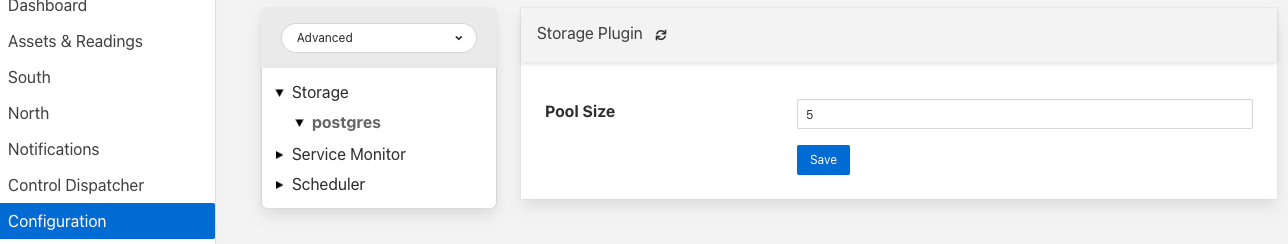
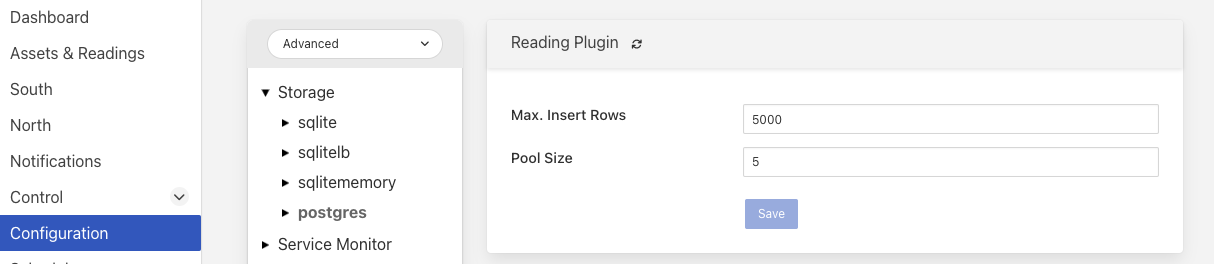
FOGL-8060 Limit size of insert statements sent to Postgres

diff --git a/C/plugins/storage/postgres/connection.cpp b/C/plugins/storage/postgres/connection.cpp
@@ -329,7 +329,7 @@ bool Connection::aggregateQuery(const Value& payload, string& resultSet)
 /**
  * Create a database connection
  */
-Connection::Connection()
+Connection::Connection() : m_maxReadingRows(INSERT_ROW_LIMIT)
 {
 	const char *defaultConninfo = "dbname = fledge";
 	char *connInfo = NULL;
@@ -1519,7 +1519,7 @@ bool 		add_row = false;
 	if (!doc.HasMember("readings"))
 	{
 		raiseError("appendReadings", "Payload is missing a readings array");
-	return -1;
+		return -1;
 	}
 	Value &rdings = doc["readings"];
 	if (!rdings.IsArray())
@@ -1528,10 +1528,32 @@ bool 		add_row = false;
 		return -1;
 	}
 
-	sql.append("INSERT INTO fledge.readings ( user_ts, asset_code, reading ) VALUES ");
+	const char *head = "INSERT INTO fledge.readings ( user_ts, asset_code, reading ) VALUES ";
+	sql.append(head);
 
+	int count = 0;
 	for (Value::ConstValueIterator itr = rdings.Begin(); itr != rdings.End(); ++itr)
 	{
+		if (count == m_maxReadingRows)
+		{
+			sql.append(';');
+
+			const char *query = sql.coalesce();
+			logSQL("ReadingsAppend", query);
+			PGresult *res = PQexec(dbConnection, query);
+			delete[] query;
+			if (PQresultStatus(res) != PGRES_COMMAND_OK)
+			{
+				raiseError("appendReadings", PQerrorMessage(dbConnection));
+				PQclear(res);
+				return -1;
+			}
+			PQclear(res);
+
+			sql.clear();
+			sql.append(head);
+			count = 0;
+		}
 		if (!itr->IsObject())
 		{
 			raiseError("appendReadings",
@@ -1550,7 +1572,7 @@ bool 		add_row = false;
 		// Check if the string is a function
 		if (isFunction(str))
 		{
-			if (row)
+			if (count)
 				sql.append(", (");
 			else
 				sql.append('(');
@@ -1567,7 +1589,7 @@ bool 		add_row = false;
 			}
 			else
 			{
-				if (row)
+				if (count)
 				{
 					sql.append(", (");
 				}
@@ -1585,6 +1607,7 @@ bool 		add_row = false;
 		if (add_row)
 		{
 			row++;
+			count++;
 
 			// Handles - asset_code
 			sql.append(",\'");
@@ -1600,6 +1623,12 @@ bool 		add_row = false;
 
 			sql.append(')');
 		}
+	}
+
+	if (count == 0)
+	{
+		// No rows in final block
+		return 0;
 	}
 	sql.append(';');
 

diff --git a/C/plugins/storage/postgres/plugin.cpp b/C/plugins/storage/postgres/plugin.cpp
@@ -22,6 +22,7 @@
 #include <string>
 #include <logger.h>
 #include <plugin_exception.h>
+#include <config_category.h>
 
 using namespace std;
 using namespace rapidjson;
@@ -43,6 +44,13 @@ const char *default_config = QUOTE({
                         "default" : "5",
                         "displayName" : "Pool Size",
                         "order" : "1"
+                        },
+                "maxReadingRows" : {
+                        "description" : "The maximum numebnr of readings to insert in a single statement",
+                        "type" : "integer",
+                        "default" : "5000",
+                        "displayName" : "Max. Insert Rows",
+                        "order" : "2"
                         }
                 });
 
@@ -71,11 +79,23 @@ PLUGIN_INFORMATION *plugin_info()
  * In the case of Postgres we also get a pool of connections
  * to use.
  */
-PLUGIN_HANDLE plugin_init()
+PLUGIN_HANDLE plugin_init(ConfigCategory *category)
 {
 ConnectionManager *manager = ConnectionManager::getInstance();
+long poolSize = 5, maxReadingRows = 5000;
 
-	manager->growPool(5);
+	if (category->itemExists("poolSize"))
+	{
+		poolSize = strtol(category->getValue("poolSize").c_str(), NULL, 10);
+	}
+	if (category->itemExists("maxReadingRows"))
+	{
+		long val = strtol(category->getValue("maxReadingRows").c_str(), NULL, 10);
+		if (val > 0)
+			maxReadingRows = val;
+	}
+	manager->setMaxReadingRows(maxReadingRows);
+	manager->growPool(poolSize);
 	return manager;
 }
 

diff --git a/C/plugins/storage/postgres/include/connection.h b/C/plugins/storage/postgres/include/connection.h
@@ -21,7 +21,13 @@
 
 #define	STORAGE_PURGE_RETAIN_ANY 0x0001U
 #define	STORAGE_PURGE_RETAIN_ALL 0x0002U
-#define STORAGE_PURGE_SIZE	     0x0004U
+#define STORAGE_PURGE_SIZE	 0x0004U
+
+/**
+ * Maximum number of readings to insert in a single 
+ * insert statement
+ */
+#define INSERT_ROW_LIMIT	5000
 
 class Connection {
 	public:
@@ -53,6 +59,10 @@ class Connection {
 						const std::string &name,
 						std::string &resultSet);
 		unsigned int	purgeReadingsAsset(const std::string& asset);
+		void		setMaxReadingRows(long rows)
+				{
+					m_maxReadingRows = rows;
+				}
 
 	private:
 		bool		m_logSQL;
@@ -75,6 +85,7 @@ class Connection {
 
 		std::string getIndexName(std::string s);
 		bool 		checkValidDataType(const std::string &s);
+		long		m_maxReadingRows;
 
 
 		typedef	struct{

diff --git a/C/plugins/storage/common/sql_buffer.cpp b/C/plugins/storage/common/sql_buffer.cpp
@@ -37,6 +37,19 @@ SQLBuffer::~SQLBuffer()
 }
 
 /**
+ * Clear all the buffers from the SQLBuffer and allow it to be reused
+ */
+void SQLBuffer::clear()
+{
+	for (list<SQLBuffer::Buffer *>::iterator it = buffers.begin(); it != buffers.end(); ++it)
+	{
+		delete *it;
+	}
+	buffers.clear();
+        buffers.push_front(new SQLBuffer::Buffer());
+}
+
+/**
  * Append a character to a buffer
  *
  * @param data	The character to append to the buffer

diff --git a/C/plugins/storage/postgres/connection_manager.cpp b/C/plugins/storage/postgres/connection_manager.cpp
@@ -60,6 +60,7 @@ void ConnectionManager::growPool(unsigned int delta)
 	{
 		Connection *conn = new Connection();
 		conn->setTrace(m_logSQL);
+		conn->setMaxReadingRows(m_maxReadingRows);
 		idleLock.lock();
 		idle.push_back(conn);
 		idleLock.unlock();
@@ -108,6 +109,8 @@ Connection *conn = 0;
 	if (idle.empty())
 	{
 		conn = new Connection();
+		conn->setTrace(m_logSQL);
+		conn->setMaxReadingRows(m_maxReadingRows);
 	}
 	else
 	{

diff --git a/C/plugins/storage/postgres/include/connection_manager.h b/C/plugins/storage/postgres/include/connection_manager.h
@@ -32,6 +32,10 @@ class ConnectionManager {
 					  {
 						return &lastError;
 					  }
+		void			  setMaxReadingRows(long rows)
+					  {
+						  m_maxReadingRows = rows;
+					  }
 
 	private:
 		ConnectionManager();
@@ -43,6 +47,7 @@ class ConnectionManager {
 		std::mutex                   errorLock;
 		PLUGIN_ERROR		     lastError;
 		bool			     m_logSQL;
+		long			     m_maxReadingRows;
 };
 
 #endif

diff --git a/C/plugins/storage/common/include/sql_buffer.h b/C/plugins/storage/common/include/sql_buffer.h
@@ -47,6 +47,7 @@ class SQLBuffer {
 		void			append(const std::string&);
 		void			quote(const std::string&);
 		const char		*coalesce();
+		void			clear();
 
 	private:
 		std::list<Buffer *>	buffers;

diff --git a/docs/tuning_fledge.rst b/docs/tuning_fledge.rst
@@ -294,6 +294,14 @@ The storage plugin configuration can be found in the *Advanced* section of the *
    
     This pool size is only the initial size, the storage service will grow the pool if required, however setting a realistic initial pool size will improve the ramp up performance of Fledge.
 
+  - **Max. Insert Rows**: The maximum number of readings that will be inserted in a single call to Postgres. This is a tuning parameter that has two effects on the system
+
+    - It limits the size, and hence memory requirements, for a single insert statement
+
+    - It prevents very long running insert transactions from blocking access to the readings table
+
+    This parameter is useful on systems with very high data ingest rates or when the ingest contains sporadic large bursts of readings, to limit resource usage and database lock contention.
+
 .. note::
 
    Although the pool size denotes the number of parallel operations that can take place, database locking considerations may reduce the number of actual operations in progress at any point in time.
